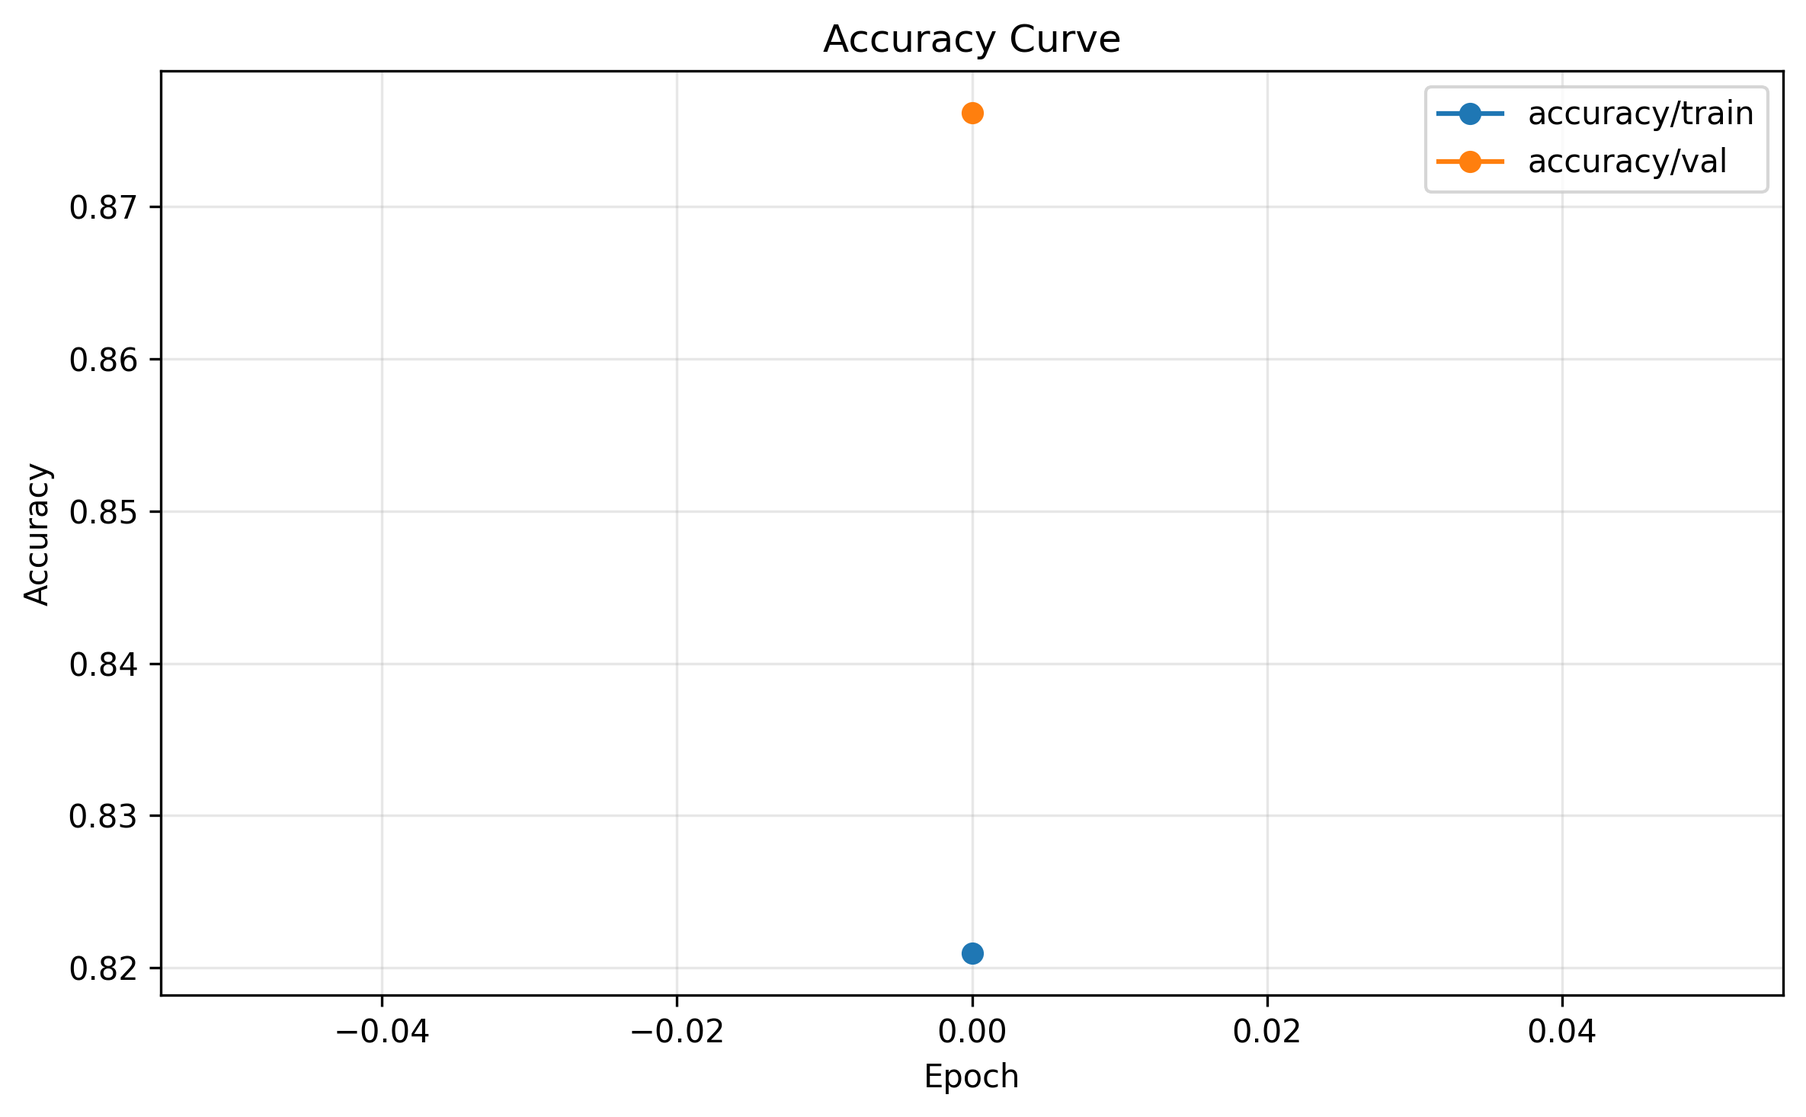
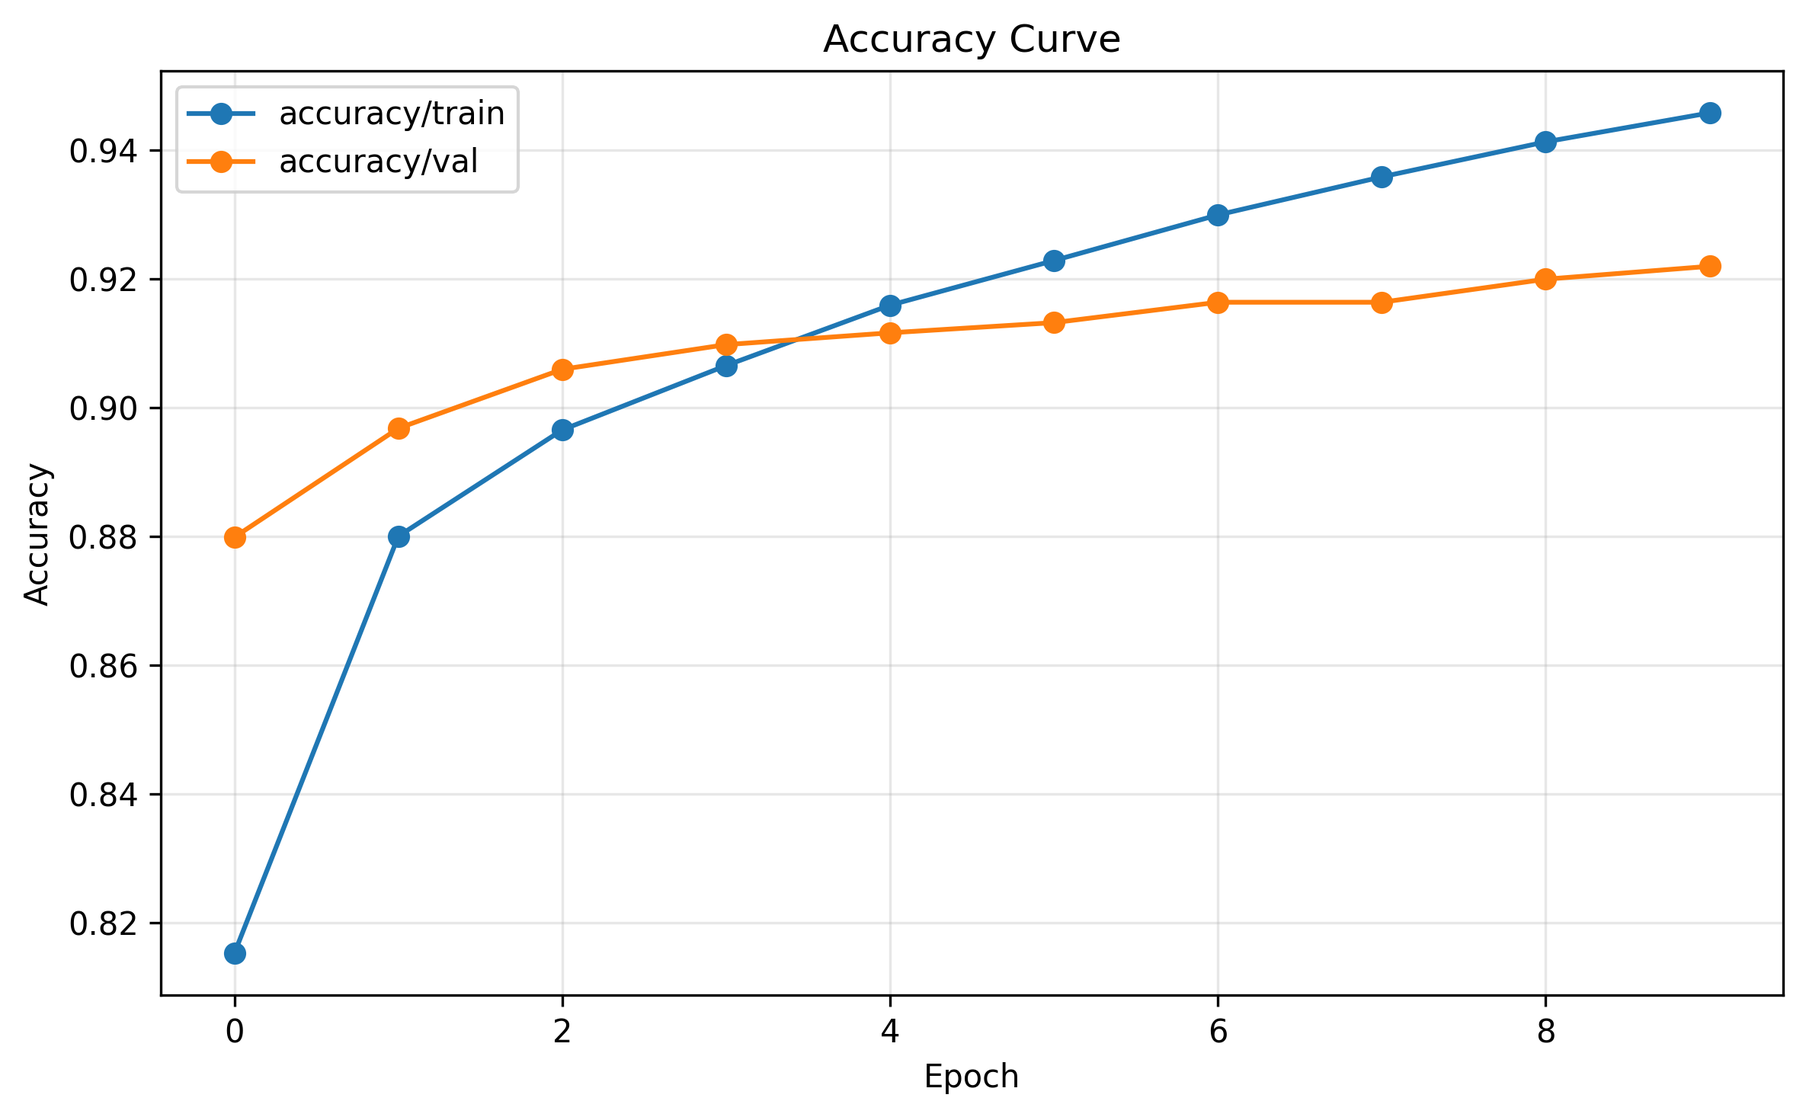
cnn basic 1 [skip ci]

diff --git a/dvclive/report.html b/dvclive/report.html
@@ -25,7 +25,7 @@
 <tr><th>arch_config          </th><th>arch_name  </th><th style="text-align: right;">  epochs</th><th style="text-align: right;">  batch_size</th><th style="text-align: right;">   lr</th><th>optimizer  </th><th style="text-align: right;">  dropout</th><th style="text-align: right;">  total_params</th><th style="text-align: right;">  seed</th></tr>
 </thead>
 <tbody>
-<tr><td>configs/cnn_basic.yml</td><td>cnn_basic  </td><td style="text-align: right;">       1</td><td style="text-align: right;">          64</td><td style="text-align: right;">0.001</td><td>adam       </td><td style="text-align: right;">      0.3</td><td style="text-align: right;">        421642</td><td style="text-align: right;">    42</td></tr>
+<tr><td>configs/cnn_basic.yml</td><td>cnn_basic  </td><td style="text-align: right;">      10</td><td style="text-align: right;">          64</td><td style="text-align: right;">0.001</td><td>adam       </td><td style="text-align: right;">      0.3</td><td style="text-align: right;">        421642</td><td style="text-align: right;">    42</td></tr>
 </tbody>
 </table>
             </div>
@@ -39,7 +39,7 @@
 <tr><th style="text-align: right;">  loss.train</th><th style="text-align: right;">  loss.val</th><th style="text-align: right;">  accuracy.train</th><th style="text-align: right;">  accuracy.val</th><th style="text-align: right;">  step</th><th style="text-align: right;">  final_train_accuracy</th><th style="text-align: right;">  final_val_accuracy</th><th style="text-align: right;">  final_train_loss</th><th style="text-align: right;">  final_val_loss</th></tr>
 </thead>
 <tbody>
-<tr><td style="text-align: right;">    0.499792</td><td style="text-align: right;">  0.332422</td><td style="text-align: right;">        0.820958</td><td style="text-align: right;">      0.876167</td><td style="text-align: right;">     0</td><td style="text-align: right;">                 0.821</td><td style="text-align: right;">              0.8762</td><td style="text-align: right;">            0.4998</td><td style="text-align: right;">          0.3324</td></tr>
+<tr><td style="text-align: right;">    0.146786</td><td style="text-align: right;">  0.236538</td><td style="text-align: right;">         0.94575</td><td style="text-align: right;">      0.921917</td><td style="text-align: right;">     9</td><td style="text-align: right;">                0.9457</td><td style="text-align: right;">              0.9219</td><td style="text-align: right;">            0.1468</td><td style="text-align: right;">          0.2365</td></tr>
 </tbody>
 </table>
             </div>
@@ -47,7 +47,7 @@
 
     <div id = "static_accuracy_train">
         <script type = "text/javascript">
-            var spec = {"$schema": "https://vega.github.io/schema/vega-lite/v5.json", "data": {"values": [{"step": "0", "train": "0.8209583163261414", "rev": "workspace"}]}, "title": {"text": "accuracy/train", "anchor": "middle"}, "width": 300, "height": 300, "params": [{"name": "smooth", "value": 0.001, "bind": {"input": "range", "min": 0.001, "max": 1, "step": 0.001}}], "encoding": {"x": {"field": "step", "type": "quantitative", "title": "step"}, "color": {"field": "rev", "scale": {"domain": ["workspace"], "range": ["#945dd6"]}}, "strokeDash": {}}, "layer": [{"layer": [{"params": [{"name": "grid", "select": "interval", "bind": "scales"}], "mark": "line"}, {"transform": [{"filter": {"param": "hover", "empty": false}}], "mark": "point"}], "encoding": {"y": {"field": "train", "type": "quantitative", "title": "train", "scale": {"zero": false}}, "color": {"field": "rev", "type": "nominal"}}, "transform": [{"loess": "train", "on": "step", "groupby": ["rev"], "bandwidth": {"signal": "smooth"}}]}, {"mark": {"type": "line", "opacity": 0.2}, "encoding": {"x": {"field": "step", "type": "quantitative", "title": "step"}, "y": {"field": "train", "type": "quantitative", "title": "train", "scale": {"zero": false}}, "color": {"field": "rev", "type": "nominal"}}}, {"mark": {"type": "circle", "size": 10}, "encoding": {"x": {"aggregate": "max", "field": "step", "type": "quantitative", "title": "step"}, "y": {"aggregate": {"argmax": "step"}, "field": "train", "type": "quantitative", "title": "train", "scale": {"zero": false}}, "color": {"field": "rev", "type": "nominal"}}}, {"transform": [{"calculate": "datum.rev", "as": "pivot_field"}, {"pivot": "pivot_field", "op": "mean", "value": "train", "groupby": ["step"]}], "mark": {"type": "rule", "tooltip": {"content": "data"}, "stroke": "grey"}, "encoding": {"opacity": {"condition": {"value": 0.3, "param": "hover", "empty": false}, "value": 0}}, "params": [{"name": "hover", "select": {"type": "point", "fields": ["step"], "nearest": true, "on": "mouseover", "clear": "mouseout"}}]}]};
+            var spec = {"$schema": "https://vega.github.io/schema/vega-lite/v5.json", "data": {"values": [{"step": "0", "train": "0.8152083158493042", "rev": "workspace"}, {"step": "1", "train": "0.8799791932106018", "rev": "workspace"}, {"step": "2", "train": "0.8964999914169312", "rev": "workspace"}, {"step": "3", "train": "0.906499981880188", "rev": "workspace"}, {"step": "4", "train": "0.9158750176429749", "rev": "workspace"}, {"step": "5", "train": "0.9228125214576721", "rev": "workspace"}, {"step": "6", "train": "0.92989581823349", "rev": "workspace"}, {"step": "7", "train": "0.9358124732971191", "rev": "workspace"}, {"step": "8", "train": "0.9412500262260437", "rev": "workspace"}, {"step": "9", "train": "0.9457499980926514", "rev": "workspace"}]}, "title": {"text": "accuracy/train", "anchor": "middle"}, "width": 300, "height": 300, "params": [{"name": "smooth", "value": 0.001, "bind": {"input": "range", "min": 0.001, "max": 1, "step": 0.001}}], "encoding": {"x": {"field": "step", "type": "quantitative", "title": "step"}, "color": {"field": "rev", "scale": {"domain": ["workspace"], "range": ["#945dd6"]}}, "strokeDash": {}}, "layer": [{"layer": [{"params": [{"name": "grid", "select": "interval", "bind": "scales"}], "mark": "line"}, {"transform": [{"filter": {"param": "hover", "empty": false}}], "mark": "point"}], "encoding": {"y": {"field": "train", "type": "quantitative", "title": "train", "scale": {"zero": false}}, "color": {"field": "rev", "type": "nominal"}}, "transform": [{"loess": "train", "on": "step", "groupby": ["rev"], "bandwidth": {"signal": "smooth"}}]}, {"mark": {"type": "line", "opacity": 0.2}, "encoding": {"x": {"field": "step", "type": "quantitative", "title": "step"}, "y": {"field": "train", "type": "quantitative", "title": "train", "scale": {"zero": false}}, "color": {"field": "rev", "type": "nominal"}}}, {"mark": {"type": "circle", "size": 10}, "encoding": {"x": {"aggregate": "max", "field": "step", "type": "quantitative", "title": "step"}, "y": {"aggregate": {"argmax": "step"}, "field": "train", "type": "quantitative", "title": "train", "scale": {"zero": false}}, "color": {"field": "rev", "type": "nominal"}}}, {"transform": [{"calculate": "datum.rev", "as": "pivot_field"}, {"pivot": "pivot_field", "op": "mean", "value": "train", "groupby": ["step"]}], "mark": {"type": "rule", "tooltip": {"content": "data"}, "stroke": "grey"}, "encoding": {"opacity": {"condition": {"value": 0.3, "param": "hover", "empty": false}, "value": 0}}, "params": [{"name": "hover", "select": {"type": "point", "fields": ["step"], "nearest": true, "on": "mouseover", "clear": "mouseout"}}]}]};
             vegaEmbed('#static_accuracy_train', spec);
         </script>
     </div>
@@ -55,7 +55,7 @@
 
     <div id = "static_accuracy_val">
         <script type = "text/javascript">
-            var spec = {"$schema": "https://vega.github.io/schema/vega-lite/v5.json", "data": {"values": [{"step": "0", "val": "0.8761666417121887", "rev": "workspace"}]}, "title": {"text": "accuracy/val", "anchor": "middle"}, "width": 300, "height": 300, "params": [{"name": "smooth", "value": 0.001, "bind": {"input": "range", "min": 0.001, "max": 1, "step": 0.001}}], "encoding": {"x": {"field": "step", "type": "quantitative", "title": "step"}, "color": {"field": "rev", "scale": {"domain": ["workspace"], "range": ["#945dd6"]}}, "strokeDash": {}}, "layer": [{"layer": [{"params": [{"name": "grid", "select": "interval", "bind": "scales"}], "mark": "line"}, {"transform": [{"filter": {"param": "hover", "empty": false}}], "mark": "point"}], "encoding": {"y": {"field": "val", "type": "quantitative", "title": "val", "scale": {"zero": false}}, "color": {"field": "rev", "type": "nominal"}}, "transform": [{"loess": "val", "on": "step", "groupby": ["rev"], "bandwidth": {"signal": "smooth"}}]}, {"mark": {"type": "line", "opacity": 0.2}, "encoding": {"x": {"field": "step", "type": "quantitative", "title": "step"}, "y": {"field": "val", "type": "quantitative", "title": "val", "scale": {"zero": false}}, "color": {"field": "rev", "type": "nominal"}}}, {"mark": {"type": "circle", "size": 10}, "encoding": {"x": {"aggregate": "max", "field": "step", "type": "quantitative", "title": "step"}, "y": {"aggregate": {"argmax": "step"}, "field": "val", "type": "quantitative", "title": "val", "scale": {"zero": false}}, "color": {"field": "rev", "type": "nominal"}}}, {"transform": [{"calculate": "datum.rev", "as": "pivot_field"}, {"pivot": "pivot_field", "op": "mean", "value": "val", "groupby": ["step"]}], "mark": {"type": "rule", "tooltip": {"content": "data"}, "stroke": "grey"}, "encoding": {"opacity": {"condition": {"value": 0.3, "param": "hover", "empty": false}, "value": 0}}, "params": [{"name": "hover", "select": {"type": "point", "fields": ["step"], "nearest": true, "on": "mouseover", "clear": "mouseout"}}]}]};
+            var spec = {"$schema": "https://vega.github.io/schema/vega-lite/v5.json", "data": {"values": [{"step": "0", "val": "0.8798333406448364", "rev": "workspace"}, {"step": "1", "val": "0.8967499732971191", "rev": "workspace"}, {"step": "2", "val": "0.905916690826416", "rev": "workspace"}, {"step": "3", "val": "0.9097499847412109", "rev": "workspace"}, {"step": "4", "val": "0.9115833044052124", "rev": "workspace"}, {"step": "5", "val": "0.9131666421890259", "rev": "workspace"}, {"step": "6", "val": "0.9163333177566528", "rev": "workspace"}, {"step": "7", "val": "0.9163333177566528", "rev": "workspace"}, {"step": "8", "val": "0.9199166893959045", "rev": "workspace"}, {"step": "9", "val": "0.921916663646698", "rev": "workspace"}]}, "title": {"text": "accuracy/val", "anchor": "middle"}, "width": 300, "height": 300, "params": [{"name": "smooth", "value": 0.001, "bind": {"input": "range", "min": 0.001, "max": 1, "step": 0.001}}], "encoding": {"x": {"field": "step", "type": "quantitative", "title": "step"}, "color": {"field": "rev", "scale": {"domain": ["workspace"], "range": ["#945dd6"]}}, "strokeDash": {}}, "layer": [{"layer": [{"params": [{"name": "grid", "select": "interval", "bind": "scales"}], "mark": "line"}, {"transform": [{"filter": {"param": "hover", "empty": false}}], "mark": "point"}], "encoding": {"y": {"field": "val", "type": "quantitative", "title": "val", "scale": {"zero": false}}, "color": {"field": "rev", "type": "nominal"}}, "transform": [{"loess": "val", "on": "step", "groupby": ["rev"], "bandwidth": {"signal": "smooth"}}]}, {"mark": {"type": "line", "opacity": 0.2}, "encoding": {"x": {"field": "step", "type": "quantitative", "title": "step"}, "y": {"field": "val", "type": "quantitative", "title": "val", "scale": {"zero": false}}, "color": {"field": "rev", "type": "nominal"}}}, {"mark": {"type": "circle", "size": 10}, "encoding": {"x": {"aggregate": "max", "field": "step", "type": "quantitative", "title": "step"}, "y": {"aggregate": {"argmax": "step"}, "field": "val", "type": "quantitative", "title": "val", "scale": {"zero": false}}, "color": {"field": "rev", "type": "nominal"}}}, {"transform": [{"calculate": "datum.rev", "as": "pivot_field"}, {"pivot": "pivot_field", "op": "mean", "value": "val", "groupby": ["step"]}], "mark": {"type": "rule", "tooltip": {"content": "data"}, "stroke": "grey"}, "encoding": {"opacity": {"condition": {"value": 0.3, "param": "hover", "empty": false}, "value": 0}}, "params": [{"name": "hover", "select": {"type": "point", "fields": ["step"], "nearest": true, "on": "mouseover", "clear": "mouseout"}}]}]};
             vegaEmbed('#static_accuracy_val', spec);
         </script>
     </div>
@@ -63,7 +63,7 @@
 
     <div id = "static_loss_train">
         <script type = "text/javascript">
-            var spec = {"$schema": "https://vega.github.io/schema/vega-lite/v5.json", "data": {"values": [{"step": "0", "train": "0.4997924268245697", "rev": "workspace"}]}, "title": {"text": "loss/train", "anchor": "middle"}, "width": 300, "height": 300, "params": [{"name": "smooth", "value": 0.001, "bind": {"input": "range", "min": 0.001, "max": 1, "step": 0.001}}], "encoding": {"x": {"field": "step", "type": "quantitative", "title": "step"}, "color": {"field": "rev", "scale": {"domain": ["workspace"], "range": ["#945dd6"]}}, "strokeDash": {}}, "layer": [{"layer": [{"params": [{"name": "grid", "select": "interval", "bind": "scales"}], "mark": "line"}, {"transform": [{"filter": {"param": "hover", "empty": false}}], "mark": "point"}], "encoding": {"y": {"field": "train", "type": "quantitative", "title": "train", "scale": {"zero": false}}, "color": {"field": "rev", "type": "nominal"}}, "transform": [{"loess": "train", "on": "step", "groupby": ["rev"], "bandwidth": {"signal": "smooth"}}]}, {"mark": {"type": "line", "opacity": 0.2}, "encoding": {"x": {"field": "step", "type": "quantitative", "title": "step"}, "y": {"field": "train", "type": "quantitative", "title": "train", "scale": {"zero": false}}, "color": {"field": "rev", "type": "nominal"}}}, {"mark": {"type": "circle", "size": 10}, "encoding": {"x": {"aggregate": "max", "field": "step", "type": "quantitative", "title": "step"}, "y": {"aggregate": {"argmax": "step"}, "field": "train", "type": "quantitative", "title": "train", "scale": {"zero": false}}, "color": {"field": "rev", "type": "nominal"}}}, {"transform": [{"calculate": "datum.rev", "as": "pivot_field"}, {"pivot": "pivot_field", "op": "mean", "value": "train", "groupby": ["step"]}], "mark": {"type": "rule", "tooltip": {"content": "data"}, "stroke": "grey"}, "encoding": {"opacity": {"condition": {"value": 0.3, "param": "hover", "empty": false}, "value": 0}}, "params": [{"name": "hover", "select": {"type": "point", "fields": ["step"], "nearest": true, "on": "mouseover", "clear": "mouseout"}}]}]};
+            var spec = {"$schema": "https://vega.github.io/schema/vega-lite/v5.json", "data": {"values": [{"step": "0", "train": "0.5134764313697815", "rev": "workspace"}, {"step": "1", "train": "0.33289727568626404", "rev": "workspace"}, {"step": "2", "train": "0.28621459007263184", "rev": "workspace"}, {"step": "3", "train": "0.25441861152648926", "rev": "workspace"}, {"step": "4", "train": "0.22870275378227234", "rev": "workspace"}, {"step": "5", "train": "0.20976829528808594", "rev": "workspace"}, {"step": "6", "train": "0.19069510698318481", "rev": "workspace"}, {"step": "7", "train": "0.17293383181095123", "rev": "workspace"}, {"step": "8", "train": "0.15710876882076263", "rev": "workspace"}, {"step": "9", "train": "0.14678643643856049", "rev": "workspace"}]}, "title": {"text": "loss/train", "anchor": "middle"}, "width": 300, "height": 300, "params": [{"name": "smooth", "value": 0.001, "bind": {"input": "range", "min": 0.001, "max": 1, "step": 0.001}}], "encoding": {"x": {"field": "step", "type": "quantitative", "title": "step"}, "color": {"field": "rev", "scale": {"domain": ["workspace"], "range": ["#945dd6"]}}, "strokeDash": {}}, "layer": [{"layer": [{"params": [{"name": "grid", "select": "interval", "bind": "scales"}], "mark": "line"}, {"transform": [{"filter": {"param": "hover", "empty": false}}], "mark": "point"}], "encoding": {"y": {"field": "train", "type": "quantitative", "title": "train", "scale": {"zero": false}}, "color": {"field": "rev", "type": "nominal"}}, "transform": [{"loess": "train", "on": "step", "groupby": ["rev"], "bandwidth": {"signal": "smooth"}}]}, {"mark": {"type": "line", "opacity": 0.2}, "encoding": {"x": {"field": "step", "type": "quantitative", "title": "step"}, "y": {"field": "train", "type": "quantitative", "title": "train", "scale": {"zero": false}}, "color": {"field": "rev", "type": "nominal"}}}, {"mark": {"type": "circle", "size": 10}, "encoding": {"x": {"aggregate": "max", "field": "step", "type": "quantitative", "title": "step"}, "y": {"aggregate": {"argmax": "step"}, "field": "train", "type": "quantitative", "title": "train", "scale": {"zero": false}}, "color": {"field": "rev", "type": "nominal"}}}, {"transform": [{"calculate": "datum.rev", "as": "pivot_field"}, {"pivot": "pivot_field", "op": "mean", "value": "train", "groupby": ["step"]}], "mark": {"type": "rule", "tooltip": {"content": "data"}, "stroke": "grey"}, "encoding": {"opacity": {"condition": {"value": 0.3, "param": "hover", "empty": false}, "value": 0}}, "params": [{"name": "hover", "select": {"type": "point", "fields": ["step"], "nearest": true, "on": "mouseover", "clear": "mouseout"}}]}]};
             vegaEmbed('#static_loss_train', spec);
         </script>
     </div>
@@ -71,7 +71,7 @@
 
     <div id = "static_loss_val">
         <script type = "text/javascript">
-            var spec = {"$schema": "https://vega.github.io/schema/vega-lite/v5.json", "data": {"values": [{"step": "0", "val": "0.33242249488830566", "rev": "workspace"}]}, "title": {"text": "loss/val", "anchor": "middle"}, "width": 300, "height": 300, "params": [{"name": "smooth", "value": 0.001, "bind": {"input": "range", "min": 0.001, "max": 1, "step": 0.001}}], "encoding": {"x": {"field": "step", "type": "quantitative", "title": "step"}, "color": {"field": "rev", "scale": {"domain": ["workspace"], "range": ["#945dd6"]}}, "strokeDash": {}}, "layer": [{"layer": [{"params": [{"name": "grid", "select": "interval", "bind": "scales"}], "mark": "line"}, {"transform": [{"filter": {"param": "hover", "empty": false}}], "mark": "point"}], "encoding": {"y": {"field": "val", "type": "quantitative", "title": "val", "scale": {"zero": false}}, "color": {"field": "rev", "type": "nominal"}}, "transform": [{"loess": "val", "on": "step", "groupby": ["rev"], "bandwidth": {"signal": "smooth"}}]}, {"mark": {"type": "line", "opacity": 0.2}, "encoding": {"x": {"field": "step", "type": "quantitative", "title": "step"}, "y": {"field": "val", "type": "quantitative", "title": "val", "scale": {"zero": false}}, "color": {"field": "rev", "type": "nominal"}}}, {"mark": {"type": "circle", "size": 10}, "encoding": {"x": {"aggregate": "max", "field": "step", "type": "quantitative", "title": "step"}, "y": {"aggregate": {"argmax": "step"}, "field": "val", "type": "quantitative", "title": "val", "scale": {"zero": false}}, "color": {"field": "rev", "type": "nominal"}}}, {"transform": [{"calculate": "datum.rev", "as": "pivot_field"}, {"pivot": "pivot_field", "op": "mean", "value": "val", "groupby": ["step"]}], "mark": {"type": "rule", "tooltip": {"content": "data"}, "stroke": "grey"}, "encoding": {"opacity": {"condition": {"value": 0.3, "param": "hover", "empty": false}, "value": 0}}, "params": [{"name": "hover", "select": {"type": "point", "fields": ["step"], "nearest": true, "on": "mouseover", "clear": "mouseout"}}]}]};
+            var spec = {"$schema": "https://vega.github.io/schema/vega-lite/v5.json", "data": {"values": [{"step": "0", "val": "0.32960155606269836", "rev": "workspace"}, {"step": "1", "val": "0.2831556499004364", "rev": "workspace"}, {"step": "2", "val": "0.25812846422195435", "rev": "workspace"}, {"step": "3", "val": "0.24577677249908447", "rev": "workspace"}, {"step": "4", "val": "0.24187658727169037", "rev": "workspace"}, {"step": "5", "val": "0.2394886612892151", "rev": "workspace"}, {"step": "6", "val": "0.2330898642539978", "rev": "workspace"}, {"step": "7", "val": "0.23698118329048157", "rev": "workspace"}, {"step": "8", "val": "0.23723654448986053", "rev": "workspace"}, {"step": "9", "val": "0.23653829097747803", "rev": "workspace"}]}, "title": {"text": "loss/val", "anchor": "middle"}, "width": 300, "height": 300, "params": [{"name": "smooth", "value": 0.001, "bind": {"input": "range", "min": 0.001, "max": 1, "step": 0.001}}], "encoding": {"x": {"field": "step", "type": "quantitative", "title": "step"}, "color": {"field": "rev", "scale": {"domain": ["workspace"], "range": ["#945dd6"]}}, "strokeDash": {}}, "layer": [{"layer": [{"params": [{"name": "grid", "select": "interval", "bind": "scales"}], "mark": "line"}, {"transform": [{"filter": {"param": "hover", "empty": false}}], "mark": "point"}], "encoding": {"y": {"field": "val", "type": "quantitative", "title": "val", "scale": {"zero": false}}, "color": {"field": "rev", "type": "nominal"}}, "transform": [{"loess": "val", "on": "step", "groupby": ["rev"], "bandwidth": {"signal": "smooth"}}]}, {"mark": {"type": "line", "opacity": 0.2}, "encoding": {"x": {"field": "step", "type": "quantitative", "title": "step"}, "y": {"field": "val", "type": "quantitative", "title": "val", "scale": {"zero": false}}, "color": {"field": "rev", "type": "nominal"}}}, {"mark": {"type": "circle", "size": 10}, "encoding": {"x": {"aggregate": "max", "field": "step", "type": "quantitative", "title": "step"}, "y": {"aggregate": {"argmax": "step"}, "field": "val", "type": "quantitative", "title": "val", "scale": {"zero": false}}, "color": {"field": "rev", "type": "nominal"}}}, {"transform": [{"calculate": "datum.rev", "as": "pivot_field"}, {"pivot": "pivot_field", "op": "mean", "value": "val", "groupby": ["step"]}], "mark": {"type": "rule", "tooltip": {"content": "data"}, "stroke": "grey"}, "encoding": {"opacity": {"condition": {"value": 0.3, "param": "hover", "empty": false}, "value": 0}}, "params": [{"name": "hover", "select": {"type": "point", "fields": ["step"], "nearest": true, "on": "mouseover", "clear": "mouseout"}}]}]};
             vegaEmbed('#static_loss_val', spec);
         </script>
     </div>
